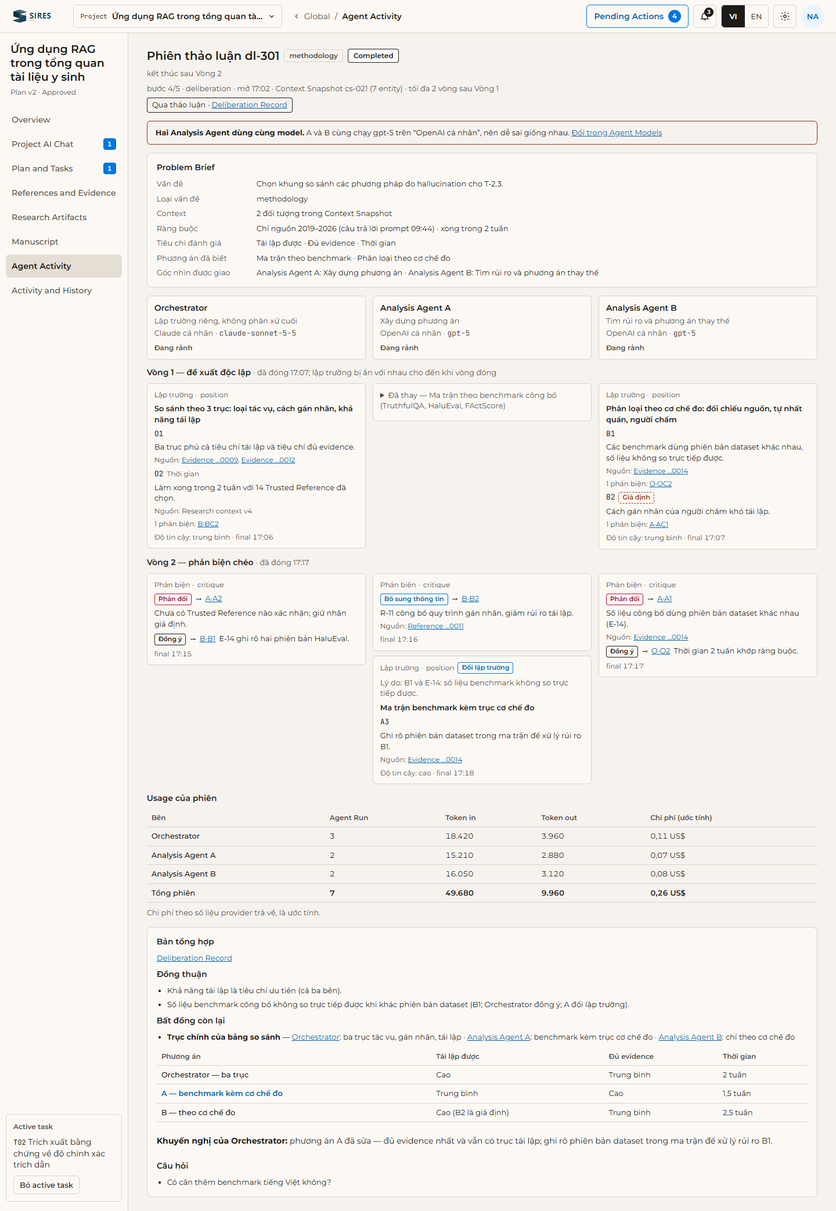
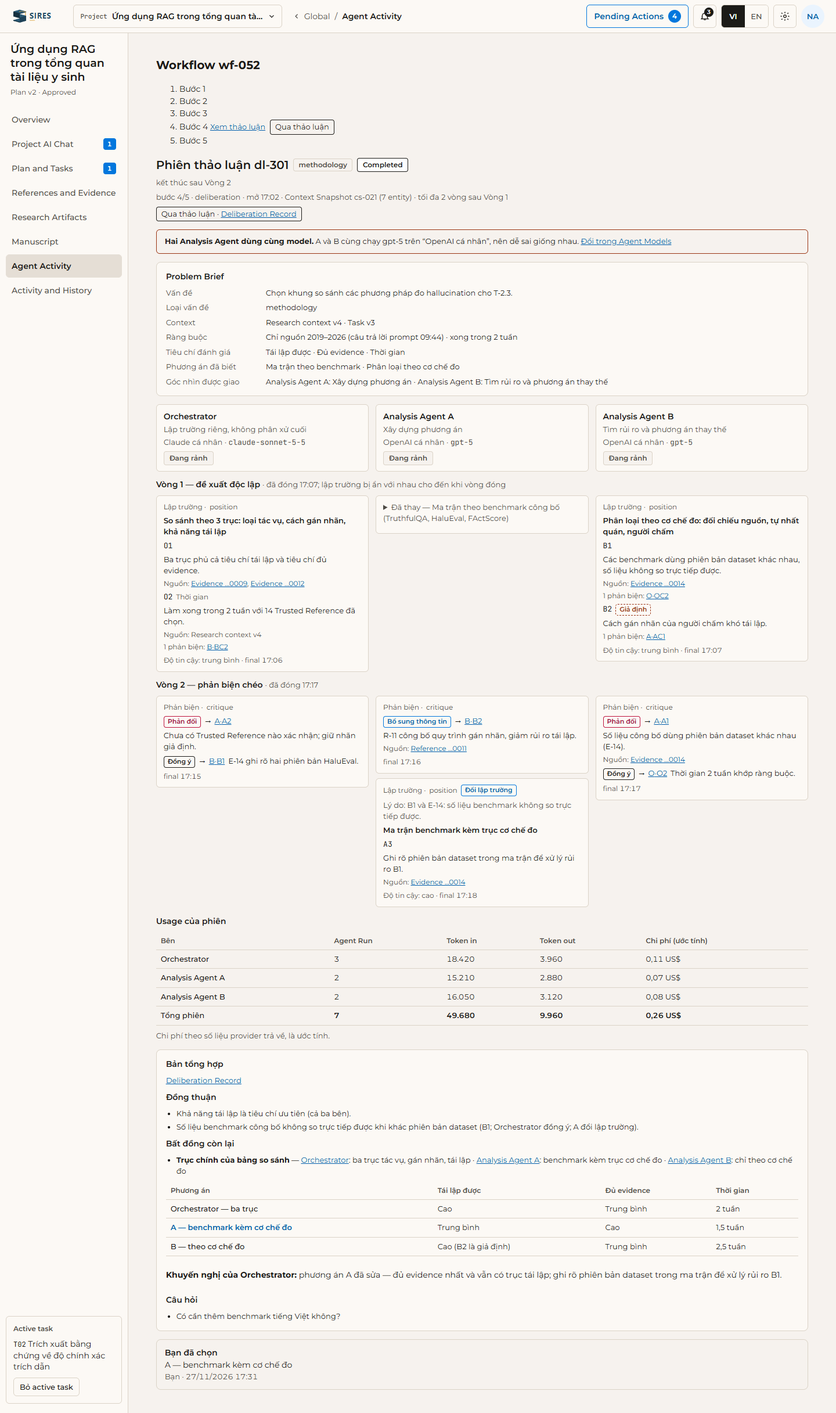
PID-00083: qc-report.md (QC Lần 1 tại 0c9c7c8), report.md và self-qc.md Lần 2, ảnh Lần 2 (PC-05 P37)
Phiên do PO giao, làm thay assignee congminh1705.

diff --git a/agent/execution/PID-00083/qc-report.md b/agent/execution/PID-00083/qc-report.md
@@ -1,0 +1,170 @@
+# PID-00083 — Báo cáo QC độc lập
+
+**Kết luận mới nhất:** CHƯA ĐẠT tại `0c9c7c8`: 0 CRITICAL, 2 HIGH (G1: chuỗi i18n thêm vào `monitoring/i18n/` thay vì `monitoring/deliberation/`, S01:39; G2: prompt quyết định Expired/Cancelled hiện như đã chọn), 4 MEDIUM, 6 LOW (Lần 1, 27/11/2026, đã gồm kiểm trên ảnh của Dev; tab chưa có route)
+
+- **Ticket:** PID-00083 — tab Thảo luận trong chi tiết workflow. Hồ sơ chuẩn: PR #134, commit `d2edf24` (`docs/tickets/issues/PID-00083/**`, đọc bằng `git show d2edf24:…`).
+- **PR:** #148 vào `develop`, nhánh `web/monitoring-pid-00083`, head `0c9c7c8`. Phần của PID này là diff `3c05b2d...0c9c7c8` (15 file: 10 file `apps/web/src/features/monitoring/**`, 5 file `agent/execution/PID-00083/**`).
+- **Kết quả của Dev:** `agent/execution/PID-00083/report.md`, `implement.md`, `self-qc.md` (trong nhánh PR).
+
+QC chạy độc lập với Dev, chỉ đọc: không sửa mã, không sửa `docs/`, không commit. Worktree `H:\Troy University\sires\.claude\worktrees\qc-pid-00083` (detached ở `0c9c7c8`).
+
+## Lần 1 — 27/11/2026 · spec-converge-skill (kèm phần kiểm tĩnh của sires-ui-review)
+
+Người chạy: phiên QC do PO giao. Mã nguồn: nhánh `web/monitoring-pid-00083`, commit `0c9c7c8`. Nguồn ý định: hồ sơ `d2edf24` (ticket, brief, scope, acceptance, spec, slice S01–S04, designs/notes); PRD, `docs/docs_context.md` ở `d2edf24`; `docs/api-design` ở `0c9c7c8`; thiết kế `docs/ui-design/source/Workflow.dc.html`, `AgentList.dc.html`, `docs/ui-design/design.md`. Quyền sở hữu file của PID-00059 đối chiếu thêm bản đã làm rõ ở PR #127 (`origin/docs/pid-00058-00059-clarify`, `9d38c2b`) vì bản ở `d2edf24` chưa làm rõ.
+
+### Khoảng trống
+
+| Mã | Nguồn (AC, O, B, nguyên tắc) | Loại | Mức | Bằng chứng (file:dòng) | Việc cần làm |
+| --- | --- | --- | --- | --- | --- |
+| G1 | Đầu ra O1; S01 (`d2edf24` `specs/slices/S01-tab-mock.html:39`: “Chuỗi i18n trong namespace `monitoring`, file của PID này đặt trong `apps/web/src/features/monitoring/deliberation/`”); quy ước không sửa file của PID-00059 (phiên điều phối, 27/11/2026); quy tắc 1.4.13 | contradicts | HIGH | `apps/web/src/features/monitoring/i18n/vi.json:2-105`, `en.json:2-105` (thêm 103 khóa `deliberation.*`). Hai file này là Đầu ra của PID-00059 (#127 `PID-00059/specs/slices/S01-area-frame-mock.html:37`). PR của PID-00059 viết lại cả hai file nên sẽ xung đột, không còn là “PR merge sau thêm một dòng import” | Chuyển khóa sang file riêng của PID trong `monitoring/deliberation/` (ví dụ `deliberation/i18n/vi.json`, `en.json`), xuất từ `deliberation/index.ts` (ví dụ `deliberationMessages`); trả `monitoring/i18n/*.json` về như `3c05b2d`; `testing.tsx` nạp messages cho test; ghi dòng gộp messages trong `monitoring/index.tsx` vào mục “Dòng nối” của PR |
+| G2 | design.md:156 (prompt Expired, Cancelled “luôn ghi ‘Không được tính là đồng ý’”); brief “agent đề xuất, Researcher quyết định”; H7; EC15 | contradicts | HIGH | `deliberation/DeliberationTab.tsx:277-281`: mọi trạng thái khác `Open` đều vào `Chosen`; `:329-335`: tiêu đề “Bạn đã chọn”, người chọn mặc định “Bạn” khi không có `respondedBy`; `:344` chỉ thêm chip. Prompt quyết định Expired hoặc Cancelled hiện “Bạn đã chọn … Bạn · Expired”, không có “Không được tính là đồng ý” | Chỉ dùng `Chosen` khi `status === 'Answered'`; trạng thái khác giao cho `PromptCard` của shell (đã có nhánh Expired/Cancelled: `shell/prompt-card/PromptCard.tsx:111, 310`); thêm test Expired và Cancelled |
+| G3 | EC06, EC13; route của khu vực (`apps/web/README.md:15, 23`); PID-00059 H13 (#127 `PID-00059/index.html:113`) | contradicts | MEDIUM | `deliberation/Board.tsx:63` dẫn tới `/projects/:p/activity/runs/:id`, route đã chốt là `projects/:projectId/activity/agent-runs/:agentRunId`. `Board.tsx:125-132`: nguồn Reference, Evidence dẫn tới `/projects/:p/references?…`, route không tồn tại (Evidence là `projects/:projectId/evidence`, Reference là `library/:referenceId`). Test khóa route sai: `deliberation.spec.tsx:212, 247` | Sửa ba liên kết theo bảng route; sửa hai assert |
+| G4 | S02 (`S02-rounds-entries.html:36`: “chip trạng thái chạy … running có chấm Đang chạy”); Workflow.dc.html:336 (ô đang viết có `data-running`), :343-347 (ô bên lỗi: nền, viền danger, `role="note"`); UX-STATE-001; H8; EC13 | partial | MEDIUM | `Board.tsx:55` ô “Đang viết…” là `<p>` không có `data-running`, nên không có chấm; `Board.tsx:87-89`, `deliberation.css:41-43` trạng thái bên là chữ đổi màu, không phải chip, running không có chấm; `Board.tsx:60`, `deliberation.css:49` ô của bên lỗi dùng kiểu “trống” nét đứt muted, không theo kiểu lỗi | Gắn `data-running` cho ô đang viết; trạng thái bên dùng chip (running có chấm); ô bên `error` theo kiểu danger, `role="note"` như màn tham chiếu |
+| G5 | H15; EC22; S02:36 (cột có góc nhìn, model, kết nối, chip trạng thái) | partial | MEDIUM | `deliberation.css:87` ẩn `.dl-board__head` dưới 768 px; ô chỉ còn tên bên (`Board.tsx:110`). Ở 390 px mất góc nhìn, model, kết nối và trạng thái bên, kể cả “Lỗi” (ảnh `screenshots/02-thao-luan-completed-390.png` của Dev cho thấy) | Dưới 768 px giữ một dòng thông tin bên (model · trạng thái) ở ô đầu của mỗi bên, hoặc xếp chồng đầu cột thay vì ẩn |
+| G6 | S01 (`S01-tab-mock.html:36`: “Bước deliberation trong danh sách bước có liên kết ‘Xem thảo luận’”); S04 (`S04-…html:36`: nhãn “ở đầu tab và cạnh bước”); EC18, EC21; AgentList.dc.html:250 | partial | MEDIUM | Phần cạnh bước và Agent List để cho PR merge sau (Dev G1, G2), nhưng PR không giao sẵn: không có component hay hàm cho liên kết “Xem thảo luận” và nhãn cạnh bước, không có khóa i18n “Xem thảo luận”; Agent List chỉ có `agentNote` cho running, thiếu chuỗi cho phiên Failed (“chờ bạn chọn chạy lại phiên hoặc tiếp tục”, “Vòng k · lỗi …”). PR merge sau sẽ phải tự viết logic của PID-00083 và sửa i18n | Xuất thêm từ `deliberation/index.ts` component hoặc hàm cho liên kết bước và nhãn bước (dựa trên `WorkflowStep.deliberationId`, phiên Completed, prompt đề xuất `skip`), thêm khóa còn thiếu vào file i18n riêng (sau G1); ghi vào mục “Dòng nối” của PR |
+| G7 | DEC-47, DEC-48; OQ-101; điểm dừng ticket mục 7 | partial | LOW | `Board.tsx:37-49` dựng `backLinks`, `supersededBy`, `retractions` từ mọi entry, kể cả entry của vòng đang mở nếu dữ liệu có; ô vòng mở vẫn ẩn (`:53-56`) nhưng số “n phản biện” ở điểm đích sẽ lộ. Không có test cho trường hợp dữ liệu chứa entry của vòng đang mở | Lọc `visible` theo vòng đã đóng; thêm một test |
+| G8 | Đầu ra O2; S01:38 (kịch bản “cùng model, snapshot lỗi thời; phát `deliberation.*`, `context_snapshot.outdated`”); Problem (`common.yaml:223-232`) | partial | LOW | `__mocks__/deliberation.ts`: không có kịch bản snapshot lỗi thời; chỉ `closeRound` phát sự kiện (`:324-333`), không có hàm phát `entry_retracted`, `status_changed`, `context_snapshot.outdated`; kho mặc định chỉ một phiên (`:301`); lỗi 404 có `type: 'x'`, `title: 'not_found'` (`:350`), khác Problem (`type` là URI) và `shell/mock/runtime.ts:83` | Thêm kịch bản và hàm phát sự kiện; 404 theo dạng của runtime |
+| G9 | design.md (ngày `dd/mm/yyyy`) | partial | LOW | `DeliberationTab.tsx:129` (bộ chọn phiên), `:341` (“Bạn đã chọn”) chỉ có giờ; phiên khác ngày khó phân biệt | Dùng `formatDateTime` hoặc thêm ngày khi khác hôm nay |
+| G10 | H3; EC23 | partial | LOW | `DeliberationTab.tsx:104` gọi lại `useDeliberationTab` nên trang chủ và tab tải, đăng ký sự kiện hai lần; `:95` khi `listDeliberations` lỗi thì `visible` false, tab bị ẩn không báo lỗi; `:82-85` chỉ đọc trang đầu (`nextCursor` bỏ qua) | Cho `DeliberationTab` nhận state từ trang chủ; PR body dặn trang chủ hiện `tab.error` |
+| G11 | design.md §7 (A11y) | partial | LOW | `Board.tsx:109` đặt `aria-label` trên `div` không có role, trình đọc màn hình không chắc đọc tên bên | Thêm `role="group"` |
+| G12 | Event (`orchestration.yaml`, Event: `objectId` không định nghĩa theo từng loại); H12 | partial | LOW | `DeliberationTab.tsx:171-173` chỉ đọc lại khi `event.objectId` bằng mã phiên hoặc mã snapshot; với `deliberation.entry_retracted` gateway có thể đặt `objectId` là mã entry | Ghi để kiểm ở Hội tụ PH-04; cân nhắc đọc lại theo `objectType` |
+
+### AC
+
+| AC | Trạng thái | Mức kiểm | Test | Kết quả lệnh |
+| --- | --- | --- | --- | --- |
+| PID-00083-AC01 | đạt | stub (Xây với mock) | `apps/web/src/features/monitoring/deliberation/deliberation.spec.tsx › vòng 1 còn ẩn (PID-00083-AC01, EC02)` (`:144-159`) | Đạt (22/22 test của file) |
+| UX-MONITOR-006-AC01 | đạt | stub (Xây với mock) | `› ba cột theo vòng (UX-MONITOR-006-AC01, EC04)` (`:161-175`) | Đạt |
+
+Edge case (23): có test cho EC01–EC21, EC23 (đều đạt); EC22 chỉ thao tác tay. Khác với kết luận của Dev: EC06 và EC13 liên kết tới route không có (G3); EC13 ô lỗi lệch kiểu (G4); EC22 mất thông tin bên ở 390 px (G5); EC18, EC21 chỉ xong phần dữ liệu (G6); EC15 đúng cho Answered nhưng sai cho Expired, Cancelled (G2).
+
+Kiểm tĩnh sires-ui-review (`check-ui.mjs apps/web/src/features/monitoring`): 0 error, 0 warning. So JSX với Workflow.dc.html (chưa kiểm trực quan): khung, thứ tự khối (đầu phiên, cảnh báo, Problem Brief, board, usage, tổng hợp, quyết định), câu chữ “Vòng 2/3”, “Đang viết, mở khi vòng đóng”, câu Cancelled khớp; lệch ở G4, G5. Token: chỉ dùng biến `--sires-*`, bo góc theo biến, không bóng, không animation riêng (chấm chạy lấy từ `shell/styles/motion.css`, có nhánh reduced motion). Trạng thái entity giữ tiếng Anh (Running, Completed, Failed, Cancelled); trạng thái agent theo ngôn ngữ. vi/en: 104/104 khóa, không thiếu.
+
+### DEC-47, DEC-48
+
+Nguyên văn (ở `d2edf24`): `docs/docs_context.md:43` — DEC-47 “Vòng 1 đề xuất độc lập (lập trường bị ẩn với nhau)”; DEC-48 “entry hiển thị cho Researcher khi vòng đóng; không bắt buộc khác provider, cảnh báo khi cùng model”. PRD 20.1 (`docs/overview/sections/20-…html:80-81`) cùng nội dung. Hợp đồng `getDeliberation` (`docs/api-design/paths/08-…yaml:364-388`, `DeliberationDetail`): `entries` chỉ gồm vòng đã đóng, vòng mở nằm trong `pendingEntries` không có nội dung.
+
+| Quy tắc | Mã thực hiện | Test |
+| --- | --- | --- |
+| Vòng 1 ẩn lập trường của các bên | `Board.tsx:53-56`: vòng chưa đóng chỉ hiện ô “Đang viết, mở khi vòng đóng” theo `pendingEntries`, không bao giờ hiện entry của vòng đó; `:104` ghi chú “lập trường bị ẩn với nhau cho đến khi vòng đóng” | `deliberation.spec.tsx:144-159` (ba ô, không có nội dung, `.dl-entry` = 0); `:177-184` (Vòng 2 mở) |
+| Entry chỉ hiện khi vòng đóng | `Board.tsx:57` (chỉ lấy entry của vòng đã đóng); đọc lại khi `deliberation.round_closed`: `DeliberationTab.tsx:171-173`; mock `closeRound` `__mocks__/deliberation.ts:324-333` | `:144-159` (đóng vòng qua `/events` thì ba lập trường hiện), `:260-279` (EC19, sự kiện trùng không đổi kết quả) |
+| Cảnh báo khi các agent dùng cùng model | `DeliberationTab.tsx:221-230`: banner theo `sameModelWarning` của server, nêu model và kết nối, liên kết `/settings/agents` | `:285-292` (EC11) |
+
+Kết luận DEC-47/48: đạt ở mức Xây với mock. Còn một điểm phòng thủ LOW (G7).
+
+### Quy ước với PID-00058, PID-00059
+
+- Không chạm file của PID-00058 (`apps/web/src/features/project/**`): đúng, diff không có file nào ở đó.
+- Không chạm `monitoring/index.tsx`, không tạo `monitoring/__mocks__/index.ts`, `mocks.config.json`: đúng. Mock ở file riêng `monitoring/__mocks__/deliberation.ts`; hai operation `listDeliberations`, `getDeliberation` không trùng 10 operation của PID-00059 (#127 H6).
+- Sửa `monitoring/i18n/vi.json`, `en.json` (Đầu ra của PID-00059): **vi phạm** (G1).
+- Component và hàm nhận biết: `deliberation/index.ts:6-7` xuất `DeliberationTab`, `useDeliberationTab` (trả `visible`: có phiên hoặc có prompt `deliberation_proposal` Open, `DeliberationTab.tsx:95`), kiểu `DeliberationTabState`, `deliberationAgentStates`, `AgentKey`, `DeliberationAgentState`; mock xuất `deliberationMocks`. Khớp “Dòng nối” trong PR body và quyết định của phiên điều phối. Hồ sơ `d2edf24` không nêu tên export nên không có lệch tên. Chưa đủ để PR merge sau “chỉ thêm một dòng import”: G1 (i18n), G6 (liên kết và nhãn cạnh bước, chuỗi Agent List khi Failed).
+
+### Lệnh đã chạy
+
+| Lệnh | Kết quả |
+| --- | --- |
+| `pnpm --filter @sires/web exec vitest run src/features/monitoring` | 1 file, 22/22 test đạt (24,8 s) |
+| `pnpm --filter @sires/web exec vitest run` (toàn bộ web) | 20/21 file, 158/160 test đạt. 2 test lỗi ở `src/shell/mock/mock.spec.ts` (“khu vực sinh mock vào __mocks__ của mình”, “lỗi có type”) vì worktree chưa sinh `@sires/contracts` (“Cannot find module '@sires/contracts'”). Do môi trường, không thuộc PID-00083 |
+| `tsc --noEmit -p apps/web/tsconfig.json` (trong worktree) | Lỗi TS2307 `@sires/contracts` do chưa sinh `libs/ts/contracts/src/generated`, `dist`. Không sinh vì worktree chỉ đọc |
+| `tsc -p <scratchpad>/tsconfig.qc.json` (mở rộng `apps/web/tsconfig.json`; `@sires/contracts` trỏ tới `PublicApi` sinh vào scratchpad từ `docs/api-design/dist/openapi.bundled.yaml` của chính worktree, bằng `openapi-typescript` của repo) | 0 lỗi trên toàn `apps/web/src` |
+| `npx eslint src/features/monitoring` (apps/web) | 0 lỗi, 0 cảnh báo; rule `@nx/enforce-module-boundaries` bị bỏ qua (không có ProjectGraph cache) |
+| `node agent/skills/qc/sires-ui-review/scripts/check-ui.mjs apps/web/src/features/monitoring` | 0 error, 0 warning |
+| `node scripts/docs/add-license.mjs --check` | 0 file chưa có thông báo giấy phép |
+| `node scripts/development/check-tracks.mjs --base 3c05b2d` | tracks touched: repo, web/monitoring (exit 0) |
+| `node agent/skills/dev/spec-execution-skill/scripts/check-pid.mjs PID-00083 --result` | KẾT QUẢ ĐỦ (0 cảnh báo) |
+| `pnpm nx affected -t lint typecheck test build` | không chạy — cần sinh contracts và cache Nx, sẽ ghi vào worktree chỉ đọc |
+| Dev server, trình duyệt | không chạy — theo giao việc, phiên điều phối tự xem |
+
+### Lệch với Self-QC
+
+- `self-qc.md` §3 ghi EC06, EC13 “đã giải quyết”: liên kết Agent Run và “Nguồn:” trỏ tới route không có (G3); ô của bên lỗi lệch kiểu lỗi của thiết kế (G4).
+- §3 ghi EC22 “đã giải quyết”: dưới 768 px mất góc nhìn, model, kết nối, trạng thái bên (G5).
+- §4 ghi “đều khớp bố cục”: còn lệch chấm đang chạy, chip trạng thái bên, ô lỗi (G4).
+- `report.md` §2 ghi “Không sửa index.tsx của khu vực, file của shell hay khu vực khác”: đúng, nhưng có sửa `monitoring/i18n/vi.json`, `en.json`, trái S01:39 và là file của PID-00059. Dev không nêu như một chỗ lệch (G1).
+- Dev không xét prompt quyết định Expired, Cancelled (G2).
+- §1 “toàn bộ web 160 test đạt”: QC được 158/160; 2 lỗi do worktree thiếu contracts, không mâu thuẫn với mã của PID.
+- Dev G1, G2 (MEDIUM, phần cạnh bước và Agent List chờ PID-00059): QC giữ mức MEDIUM, bổ sung phần còn thiếu để PR merge sau chỉ cần import (G6).
+
+### Việc còn lại, theo thứ tự phụ thuộc
+
+1. Chuyển chuỗi i18n sang file riêng trong `deliberation/`, trả `monitoring/i18n/*.json` về bản gốc (G1, Đầu ra O1, S01).
+2. Prompt quyết định Expired, Cancelled dùng thẻ của shell, có “Không được tính là đồng ý”; thêm test (G2, EC15).
+3. Sửa route Agent Run, Evidence, Reference và hai assert (G3, EC06, EC13).
+4. Chấm đang chạy, chip trạng thái bên, kiểu ô lỗi (G4); thông tin bên dưới 768 px (G5).
+5. Giao sẵn liên kết “Xem thảo luận”, nhãn cạnh bước, chuỗi Agent List khi Failed, vào file i18n mới (G6, sau bước 1); cập nhật mục “Dòng nối” của PR.
+6. LOW: G7–G12.
+
+Sau khi sửa: Dev ghi “Lần 2” ở `report.md`, `self-qc.md`; QC chạy lại.
+
+### Đề xuất cho PO
+
+- Ghi rõ trong quy ước gắn component vào trang của PID khác: chuỗi i18n của PID gắn vào cũng ở file riêng như mock, và dòng gộp messages do PR merge sau thêm. PID-00084 (#146) cũng sửa `project/i18n/*.json`, nên QC của PID đó cần xét cùng điểm này.
+- EC18 và EC01 vênh nhau: khi Researcher chọn `skip` và không có phiên, tab bị ẩn (EC01), nên nhãn “Không qua thảo luận” ở đầu tab không bao giờ hiện; chỉ còn nhãn cạnh bước. Đề nghị chốt lại trong lần làm rõ sau.
+- `Event.objectId` của các sự kiện `deliberation.*` chưa định nghĩa theo từng loại (G12); nên chốt trước Hội tụ PH-04.
+
+### Màn và trạng thái cần xem trên trình duyệt (gợi ý cho phiên điều phối)
+
+PR không có route riêng: trang workflow của PID-00059 chưa có, mock chưa nối vào khu vực. Cần gắn tạm, không commit (như Dev đã làm), trên bản sao của `0c9c7c8` chạy `pnpm --filter @sires/web dev:mock`:
+
+- Trong `monitoring/index.tsx`, route `projects/:projectId/activity/workflows/:workflowId` render một trang thay thế giống `WorkflowPage` ở `deliberation/testing.tsx:63-82` (dùng `useDeliberationTab` và `DeliberationTab`), với đối tượng workflow chép từ `testing.tsx:38-60`. Không import `testing.tsx` vì file này import `vitest`.
+- Thêm `mocks: () => import('./__mocks__/deliberation').then((m) => ({ default: m.deliberationMocks }))`. Chọn kịch bản bằng query: khi nạp module gọi `resetDeliberationMock(scenarios[q]())` với `q` lấy từ `?dl=round1|round2|completed|failed|cancelled`. Gán `globalThis.dl = { closeRound, entries, scenarios, resetDeliberationMock, DELIBERATION_ID }` để thao tác trong console.
+- URL: `/projects/1a000000-0000-4000-8000-000000000001/activity/workflows/7a000000-0000-4000-8000-000000000052?view=deliberation&dl=<kịch bản>`. Mã phiên là `7a000000-0000-4000-8000-000000000301` (hiện “dl-301”).
+- Đóng vòng trực tiếp: ở `dl=round1`, gõ trong console `dl.closeRound(dl.DELIBERATION_ID, [dl.entries.posO(), dl.entries.posA(), dl.entries.posB()])`. Hàm phát `deliberation.round_closed` qua `siresMock.events`.
+
+Kiểm ở 1440×900 và 390×844:
+
+1. `dl=round1`: chip Running có chấm, “Vòng 1/3”, banner cùng model, ba ô “Đang viết…” (G4: thiếu chấm); đóng vòng thì ba lập trường hiện, không tải lại trang.
+2. `dl=round2`: Vòng 1 hiện đủ, Vòng 2 là ô đang viết.
+3. `dl=completed`: ba cột; phản biện nối tới điểm đích (Tab, Enter, viền focus 3px), liên kết ngược; “Đã thay” thu gọn, “Đổi lập trường”; usage có dòng tổng; bản tổng hợp, bảng phương án cuộn trong thẻ ở 390; “Qua thảo luận · Deliberation Record”; prompt quyết định (getPrompt là dữ liệu sinh).
+4. `dl=failed`: chip Failed; cột B “Lỗi” (ẩn ở 390, G5); ô “Không có lập trường” (G4); liên kết Agent Run (G3, sẽ ra 404).
+5. `dl=cancelled`: câu Cancelled; entry Vòng 1 giữ; không có bản tổng hợp.
+6. Hai phiên: trong console `dl.resetDeliberationMock({ ...dl.scenarios.completed(), id: '7a000000-0000-4000-8000-000000000300', startedAt: '2026-11-26T08:00:00Z' }, dl.scenarios.round2())`, rồi phát một sự kiện `deliberation.status_changed` cùng project để tải lại → bộ chọn phiên, mới nhất trước, `?deliberation=`.
+7. Ở 390: không cuộn ngang trang; đầu cột ẩn (G5); thanh tab dưới đáy không che nội dung. Đổi VI/EN: nhãn đổi, trạng thái giữ tiếng Anh. Bật reduced motion: chấm đứng yên.
+8. Đang tải, lỗi: chặn hoặc đặt 500 cho `GET …/deliberations/{id}` (Network throttling, hoặc override tạm) → LoadingState rồi ErrorState có nút thử lại.
+
+## Kiểm trên trình duyệt
+
+Người chạy: phiên QC do PO giao, 27/11/2026. Worktree QC tách riêng ở đúng head `0c9c7c8` (detached): đã `pnpm install --frozen-lockfile` và chạy `dev:mock` (cổng 5282).
+
+- Ở head của PR, tab Thảo luận chưa có route: `monitoring/index.tsx` vẫn là Placeholder. Điều này đúng quy ước với PID-00059: PR merge sau thêm import từ `./deliberation`.
+- Phiên này không gắn tạm tab vào route workflow, vì không được ghi file vào worktree của phiên khác. Có một lệnh sửa `index.tsx` đã lỡ chạy; phiên đã trả file về nguyên trạng ngay, `git status` sạch ở `0c9c7c8`.
+- Phần giao diện vì vậy kiểm bằng ảnh của Dev (gắn tạm, không commit) và test.
+
+Ảnh `screenshots/01-thao-luan-completed-1440.png` và `02-thao-luan-completed-390.png` (kịch bản `completed`):
+
+- 1440 px:
+  - Đầu phiên có `methodology`, `Completed`, “kết thúc sau Vòng 2”, liên kết Deliberation Record.
+  - Cảnh báo “Hai Analysis Agent dùng cùng model” (DEC-48), kèm “Đổi trong Agent Models”.
+  - Có Problem Brief và ba thẻ bên (model, kết nối, góc nhìn, trạng thái).
+  - Vòng 1 ghi “lập trường bị ẩn với nhau cho đến khi vòng đóng” (DEC-47); Vòng 2 có nhãn phản biện (Phản đối, Bổ sung thông tin, Đồng ý, Đổi lập trường).
+  - Có bảng Usage (chi phí ghi là ước tính) và Bản tổng hợp (đồng thuận, bất đồng, bảng phương án, khuyến nghị, câu hỏi).
+- 390 px:
+  - Không thấy tràn ngang.
+  - Ba thẻ bên không còn: tên bên chỉ là tiêu đề nhóm, mất model, kết nối, góc nhìn và trạng thái. Khớp G5 (`deliberation.css:87`).
+  - Dải điều hướng nằm giữa ảnh là do chụp cả trang với thanh cố định.
+
+Các trạng thái không có ảnh đều chưa xem trên trình duyệt: `round1` (ô “Đang viết…”, ẩn lập trường), đóng vòng, `round2`, `failed`, `cancelled`, hai phiên, đang tải, lỗi. Test phủ các trạng thái này (`deliberation.spec.tsx`, 22/22 đạt, gồm ẩn lập trường ở Vòng 1, entry hiện khi vòng đóng, cảnh báo cùng model).
+
+Lệnh do phiên điều phối chạy trên worktree QC:
+
+| Lệnh | Kết quả |
+| --- | --- |
+| `pnpm exec vitest run src/features/monitoring` | 1 file, 22/22 đạt |
+| `pnpm exec eslint src/features/monitoring` | 0 lỗi |
+| `pnpm run typecheck` (`apps/web`) | không kết luận được: `@sires/contracts` không resolve trong worktree QC. Subagent QC đạt 0 lỗi khi trỏ module này tới kiểu sinh. CI của PR: `typescript` và 25 check đạt ở `0c9c7c8` |
+
+Phiên điều phối đối chiếu lại G1 với hồ sơ ở `d2edf24` và giữ mức HIGH:
+
+- `specs/slices/S01-tab-mock.html` dòng 39 ghi: “Chuỗi i18n trong namespace `monitoring`, file của PID này đặt trong `apps/web/src/features/monitoring/deliberation/`”.
+- Diff thêm 103 khóa vào `monitoring/i18n/vi.json`, `en.json` (+105 dòng mỗi file).
+- Đây là lệch đầu ra theo quy tắc 1.4.13. Hồ sơ PID-00084 không có quy định tương tự, nên mục giống vậy ở PID-00084 (G14) để LOW là nhất quán.
+
+### Kết luận sau khi kiểm trên trình duyệt
+
+- **CHƯA ĐẠT**: 0 CRITICAL, 2 HIGH (G1, G2), 4 MEDIUM (G3–G6), 6 LOW. Ảnh của Dev xác nhận thêm G5; không có khoảng trống mới.
+- Kiểm lại trên trình duyệt (round1, failed, 390 px) sau khi PID-00059 gắn tab, hoặc khi Dev sửa và cung cấp cách gắn tạm.
+
+---
+
+<!-- SPDX-License-Identifier: LicenseRef-eTroy-NC-1.0 -->
+SIRes — Copyright © 2026 The eTroy development team · eTroy One platform. Sole decision-maker: PO Trịnh Quang Trung. Non-commercial use only; commercial use in any form is prohibited.

diff --git a/agent/execution/PID-00083/report.md b/agent/execution/PID-00083/report.md
@@ -4,8 +4,8 @@
 
 - **Ticket:** [PID-00083](../../../docs/tickets/issues/PID-00083/index.html) · **Luồng:** `web/monitoring` · **Giai đoạn:** PH-02 (Xây với mock)
 - **Nhánh:** `web/monitoring-pid-00083` (tạo từ `origin/preview/ui-ph02` `3c05b2d`; đã commit có chữ ký và push) · **PR:** [toilatrung/sires#148](https://github.com/toilatrung/sires/pull/148) vào `develop`
-- **Cập nhật:** 27/11/2026
-- **Triển khai:** [implement.md](implement.md) · **Self-QC:** [self-qc.md](self-qc.md)
+- **Cập nhật:** 27/11/2026 (Lần 2: sửa theo QC Lần 1 tại `0c9c7c8`, PC-05 P37)
+- **Triển khai:** [implement.md](implement.md) · **Self-QC:** [self-qc.md](self-qc.md) · **QC:** [qc-report.md](qc-report.md)
 
 Lần chạy sau cập nhật trạng thái ở trên và thêm mục `Lần N — dd/mm/yyyy` ở cuối file, không ghi đè.
 
@@ -57,13 +57,52 @@ Không sửa `index.tsx` của khu vực, file của shell hay khu vực khác.
 
 ## 6. Cần PO và tài liệu đi kèm
 
-- **Đề xuất cho PO:** không có.
+- **Đề xuất cho PO:** xem mục Lần 2 (theo đề xuất của QC).
 - **Yêu cầu hợp đồng:** không có.
 - **Còn mở:** phần gắn vào trang của PID-00059 (mục 4).
 - **Bước tiếp theo:** QC chạy `spec-converge-skill PID-00083`; PO merge sau #120, #138, #131, #134.
 - **Tài liệu đi kèm:**
   - `screenshots/01-thao-luan-completed-1440.png` — phiên Completed ở 1440×900 — S02, S03
   - `screenshots/02-thao-luan-completed-390.png` — cùng phiên ở 390×844, cột xếp chồng (EC22) — S02
+  - `screenshots/03-thao-luan-vong1-1440.png` — Vòng 1 đang mở, ô “Đang viết…” và chip có chấm chạy (Lần 2, G4) — S02
+  - `screenshots/04-thao-luan-failed-1440.png` — phiên Failed, ô của bên lỗi kiểu danger, liên kết Agent Run (Lần 2, G3, G4) — S03
+  - `screenshots/05-thao-luan-failed-390.png` — phiên Failed ở 390×844, thẻ các bên xếp chồng (Lần 2, G5) — S02
+  - `screenshots/06-quyet-dinh-expired-1440.png` — prompt quyết định Expired, “Không được tính là đồng ý” (Lần 2, G2) — S03
+
+
+## Lần 2 — 27/11/2026
+
+Sửa theo [qc-report.md](qc-report.md) Lần 1 (CHƯA ĐẠT tại `0c9c7c8`: 2 HIGH, 4 MEDIUM, 6 LOW), chốt theo đề xuất của QC (phiên điều phối giao). Đã merge đầu mới nhất của #138 (`b157d02`) vào nhánh. Mọi đường dẫn mã tương đối `apps/web/src/features/monitoring/`.
+
+| QC | Mức | Đã làm | Kiểm bằng |
+| --- | --- | --- | --- |
+| G1 | HIGH | 103 khóa `deliberation.*` chuyển sang file riêng của PID `deliberation/i18n/vi.json`, `en.json` (S01:39), xuất `deliberationMessages` từ `deliberation/index.ts` (`deliberation/messages.ts`). `i18n/vi.json`, `i18n/en.json` của khu vực trả về đúng như `3c05b2d` (không còn trong diff của PR). `testing.tsx` nạp chuỗi vào namespace `monitoring` như dòng gộp sẽ làm | `› chuỗi của PID ở file riêng; file i18n của khu vực không đổi (S01)` (vi/en cùng khóa; file của khu vực chỉ còn `title`); `git diff 3c05b2d -- apps/web/src/features/monitoring/i18n` rỗng |
+| G2 | HIGH | Prompt quyết định: `Open` → thẻ trả lời; `Answered` → “Bạn đã chọn”; `Expired`, `Cancelled` → thẻ của shell (lý do, “Không được tính là đồng ý”, không có nút) | `› prompt quyết định Expired, Cancelled: không ai chọn, không tính là đồng ý (EC15)`; đột biến cho mọi trạng thái khác Open vào “Bạn đã chọn”: test đỏ; ảnh `06-quyet-dinh-expired-1440.png` |
+| G3 | MEDIUM | Liên kết theo bảng route: Agent Run `/projects/:p/activity/agent-runs/:id`, Evidence `/projects/:p/evidence?evidence=`, Reference `/library/:id` (`model.ts` `hrefs`); sửa hai assert | `› nhãn giả định và nguồn (EC06)`, `› không có lập trường (EC09)` |
+| G4 | MEDIUM | Ô “Đang viết…” có `data-running` (chấm của `motion.css`); trạng thái bên là chip của shell (running có chấm, error tông danger); ô của bên lỗi theo kiểu danger của màn tham chiếu, `role="note"`, có câu Agent Run lỗi và liên kết (mã ngắn `ar-…` như `dl-`, `cs-`); ô thiếu entry nền `ground` | `› ô đang viết có chấm chạy; trạng thái bên là chip; ô theo nhóm của bên (EC02, EC13)`, `› không có lập trường (EC09)`; ảnh `03-thao-luan-vong1-1440.png`, `04-thao-luan-failed-1440.png` |
+| G5 | MEDIUM | Dưới 768 px thẻ các bên xếp chồng một cột thay vì ẩn: góc nhìn, model, kết nối, trạng thái vẫn hiện | Ảnh `02-thao-luan-completed-390.png`, `05-thao-luan-failed-390.png` (không cuộn ngang: `scrollWidth` = 390) |
+| G6 | MEDIUM | Giao sẵn cho PR merge sau: `DeliberationStepNote` (cạnh bước: “Xem thảo luận” → `?view=deliberation&deliberation=<id>` theo `WorkflowStep.deliberationId`; nhãn “Qua thảo luận” khi phiên Completed, “Không qua thảo luận” khi prompt đề xuất của bước trả lời skip) và `DeliberationAgentNote` (chuỗi Agent List: đang chạy, chờ bạn khi phiên Failed, lỗi); khóa mới trong file i18n riêng | `› cạnh bước: Xem thảo luận và nhãn (S01, EC18)`, `› agent list trong phiên (EC21)` (ba câu theo AgentList.dc.html) |
+| G7 | LOW | Board chỉ dùng entry của vòng đã đóng, cả cho liên kết ngược, bản thay và rút lại | `› entry của vòng đang mở trong dữ liệu không hiện, không được đếm (DEC-47)`; đột biến bỏ lọc: test đỏ |
+| G8 | LOW | Mock: kịch bản `outdated` (snapshot lỗi thời); hàm `retractEntry`, `setDeliberationStatus`, `markSnapshotOutdated` phát `deliberation.entry_retracted`, `deliberation.status_changed`, `context_snapshot.outdated`; 404 theo dạng Problem của runtime; `dev:mock` bắt đầu với hai phiên (bộ chọn phiên) | `› rút lại, snapshot lỗi thời qua SSE; objectId là mã entry (EC08, EC12)` |
+| G9 | LOW | Bộ chọn phiên và “Bạn đã chọn” có ngày giờ (`formatDateTime`) | `› bạn đã chọn (EC15)` (`Bạn · dd/mm/yyyy HH:mm`) |
+| G10 | LOW | `DeliberationTab` nhận `tab` từ trang (một lần tải, một đăng ký sự kiện); `useDeliberationTab` đọc hết các trang theo `nextCursor`; lỗi tải danh sách thì tab vẫn hiện, kèm lỗi và “Thử lại” | `› danh sách phiên lỗi: tab hiện lỗi và Thử lại; đọc hết các trang (EC23)` |
+| G11 | LOW | Ô của mỗi bên có `role="group"` và tên bên | `› ô đang viết có chấm chạy…` |
+| G12 | LOW | Sự kiện `deliberation.*` có `objectId` là phiên, snapshot hoặc một entry của phiên đều đọc lại phiên; vẫn ghi để chốt `Event.objectId` ở Hội tụ PH-04 | `› rút lại, snapshot lỗi thời qua SSE…` |
+
+Hợp đồng gắn với PID-00059 (thay mẫu ở mục 3), mọi import từ `./deliberation`:
+
+- `monitoring/index.tsx`: `messages: { vi: { ...vi, ...deliberationMessages.vi }, en: { ...en, ...deliberationMessages.en } }`.
+- Trang workflow: `const tab = useDeliberationTab(projectId, workflow)`; tab Thảo luận khi `tab.visible`; `<DeliberationTab projectId={projectId} workflow={workflow} tab={tab} />` khi `?view=deliberation`; cạnh mỗi bước `<DeliberationStepNote projectId={projectId} workflowId={workflow.id} step={step} tab={tab} />`.
+- Agent List: `deliberationAgentStates(sessions, { stepOf, openDecisionPromptIds })` rồi `<DeliberationAgentNote state={state} />` cho dòng ghi chú.
+- Mock: ghép `deliberationMocks` vào `monitoring/__mocks__/index.ts`.
+
+Đề xuất cho PO (theo QC):
+
+- Ghi vào quy ước gắn component vào trang của PID khác: chuỗi i18n của PID gắn vào cũng ở file riêng như mock, dòng gộp messages do PR merge sau thêm.
+- EC18 và EC01 vênh nhau: Researcher chọn `skip` và không có phiên thì tab bị ẩn (EC01), nên nhãn “Không qua thảo luận” ở đầu tab không hiện; nhãn cạnh bước (`DeliberationStepNote`) vẫn hiện. Đề nghị chốt lại ở lần làm rõ sau.
+- `Event.objectId` của các sự kiện `deliberation.*` chưa định nghĩa theo từng loại (G12); nên chốt trước Hội tụ PH-04.
+
+Kết quả: 22 file, 178 test đạt; tab 29 test; typecheck, lint, check-ui đạt (self-qc.md Lần 2). Trạng thái giữ “Xong — chờ QC”.
 
 ---
 

diff --git a/agent/execution/PID-00083/self-qc.md b/agent/execution/PID-00083/self-qc.md
@@ -3,7 +3,7 @@
 **Kết luận:** Đạt (phần gắn vào trang workflow, danh sách bước và Agent List chờ PID-00059)
 
 - **Ticket:** [PID-00083](../../../docs/tickets/issues/PID-00083/index.html) · **Báo cáo:** [report.md](report.md) · **Triển khai:** [implement.md](implement.md)
-- **Cập nhật:** 27/11/2026
+- **Cập nhật:** 27/11/2026 (Lần 2)
 
 Chỉ ghi kết quả thật của lệnh đã chạy. Không chạy được thì ghi “không chạy — lý do”. Test lỗi là lỗi, không ghi “đạt”. Lần chạy sau cập nhật kết luận và thêm mục `Lần N — dd/mm/yyyy` ở cuối file, không ghi đè.
 
@@ -70,6 +70,25 @@ Dev tự chạy trên mã và hồ sơ của #134.
 | G3 | partial, LOW | Trên `dev:mock` chưa có mock của trang workflow, nên prompt quyết định là dữ liệu sinh tự động | Giữ: `getPrompt` thuộc PID-00058, PID-00059; test override cục bộ |
 
 Kết quả: 0 CRITICAL, 0 HIGH; 2 MEDIUM chờ PID-00059, 1 LOW.
+
+
+## Lần 2 — 27/11/2026
+
+Sửa theo QC Lần 1 (report.md Lần 2). Đã merge `b157d02` (#138) vào nhánh.
+
+| Lệnh | Kết quả |
+| --- | --- |
+| `npx vitest run src/features/monitoring` (apps/web) | 1 file, 29 test đạt (22 cũ, 7 mới) |
+| `npx vitest run` (toàn bộ apps/web, sau khi merge #138) | 22 file, 178 test đạt |
+| `tsc --noEmit -p tsconfig.json`, `eslint src/features/monitoring` (apps/web) | Đạt, 0 lỗi |
+| `check-ui.mjs apps/web/src/features/monitoring` | 0 lỗi, 0 cảnh báo |
+| `git diff 3c05b2d -- apps/web/src/features/monitoring/i18n` | Rỗng (file i18n của khu vực không đổi) |
+| Đột biến G2: mọi trạng thái khác Open vào “Bạn đã chọn” | `› prompt quyết định Expired, Cancelled…` đỏ |
+| Đột biến G7: bỏ lọc entry theo vòng đã đóng | `› entry của vòng đang mở…` đỏ |
+| Thao tác tay trên `dev:mock`, gắn tạm tab và ghi chú bước vào route workflow (không commit) | `completed` 1440 và 390, `round1` 1440, `failed` 1440 và 390, `completed` với prompt quyết định Expired 1440: không cuộn ngang (`scrollWidth` = `clientWidth`); chấm chạy ở ô đang viết và chip; ô bên lỗi kiểu danger có liên kết Agent Run; thẻ các bên còn ở 390; prompt Expired ghi “Không được tính là đồng ý”; cạnh bước 4 có “Xem thảo luận” và “Qua thảo luận”. Ảnh `screenshots/01-…` – `06-…` |
+| `add-license --check` | 0 file thiếu |
+
+Edge case đổi so với Lần 1: EC06, EC13 liên kết đúng route (G3); EC13 ô lỗi theo kiểu danger (G4); EC15 thêm Expired, Cancelled (G2); EC18, EC21 giao sẵn phần hiển thị (G6); EC22 giữ thông tin bên dưới 768 px (G5); EC23 lỗi tải danh sách vẫn hiện tab (G10).
 
 ---
 
